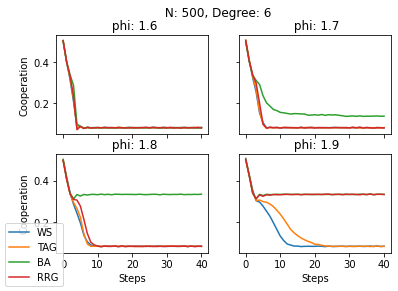
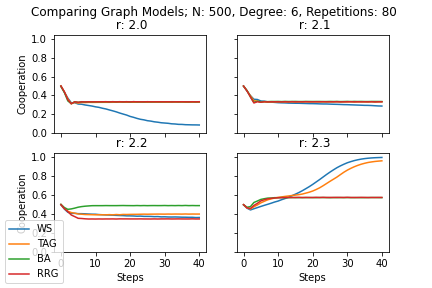
more images

Changed region(s): [[0.0, 0.0, 0.995, 1.0]]

diff --git a/comparing_graphs_home.py b/comparing_graphs_home.py
@@ -26,7 +26,7 @@ parameters = {
     'seed':42,
     'steps': 40, #number of time periods
     'agent_n': 500,
-    'phi':ap.Values(1.6,1.7,1.8,1.9), #multiplier for common contributions
+    'phi':ap.Values(1.6,1.7,1.8,1.9), #ap.Values(2.0,2.1,2.2,2.3), #multiplier for common contributions
     'graph_m' : 6,
     'graph_alpha': 0.3,
     'graph_p':0.1,
@@ -39,18 +39,18 @@ parameters = {
 
 sample = ap.Sample(
     parameters,
-    n=4,
+    n=1,
     method='linspace'
 )
 
-
-exp = ap.Experiment(WealthModel, sample, iterations=80,
+reps = 80
+exp = ap.Experiment(WealthModel, sample, iterations=reps,
                     record = True)
 results = exp.run()
 
 save = True #save the figure
 
-filename = 'graphs1'
+filename = 'graphs11'
 
 phis = results.parameters.sample.phi
 coops = results.variables.WealthModel.Cooperation_Level.groupby(['t', 'sample_id']).mean()
@@ -83,7 +83,7 @@ phi_graph = phi_graph.reset_index()
 graphs = results.parameters.sample.gtype
 
 fig,axs = plt.subplots(2,2, sharex = True, sharey = True)
-fig.suptitle(f'Comparing Graph Models; N: {parameters["agent_n"]}, Degree: {parameters["graph_m"]} ')
+fig.suptitle(f'Comparing Graph Models; N: {parameters["agent_n"]}, Degree: {parameters["graph_m"]}, Repetitions: {reps} ')
 
 axesx = [0,0,0,1,1,1]
 axesy = [0,1,2,0,1,2]
@@ -110,9 +110,9 @@ for ax in axs.flat:
     ax.set(xlabel = 'Steps')
     ax.set(ylabel = 'Cooperation')
     ax.label_outer()
-    ax.yticks(ticks = [0,0.2,0.4,0.6,0.8,1.0])
+    ax.set_yticks(ticks = [0,0.2,0.4,0.6,0.8,1.0])
     
-fig.set_size_inches(7,5)
+#fig.set_size_inches(7,5)
 
 
 if save: 
